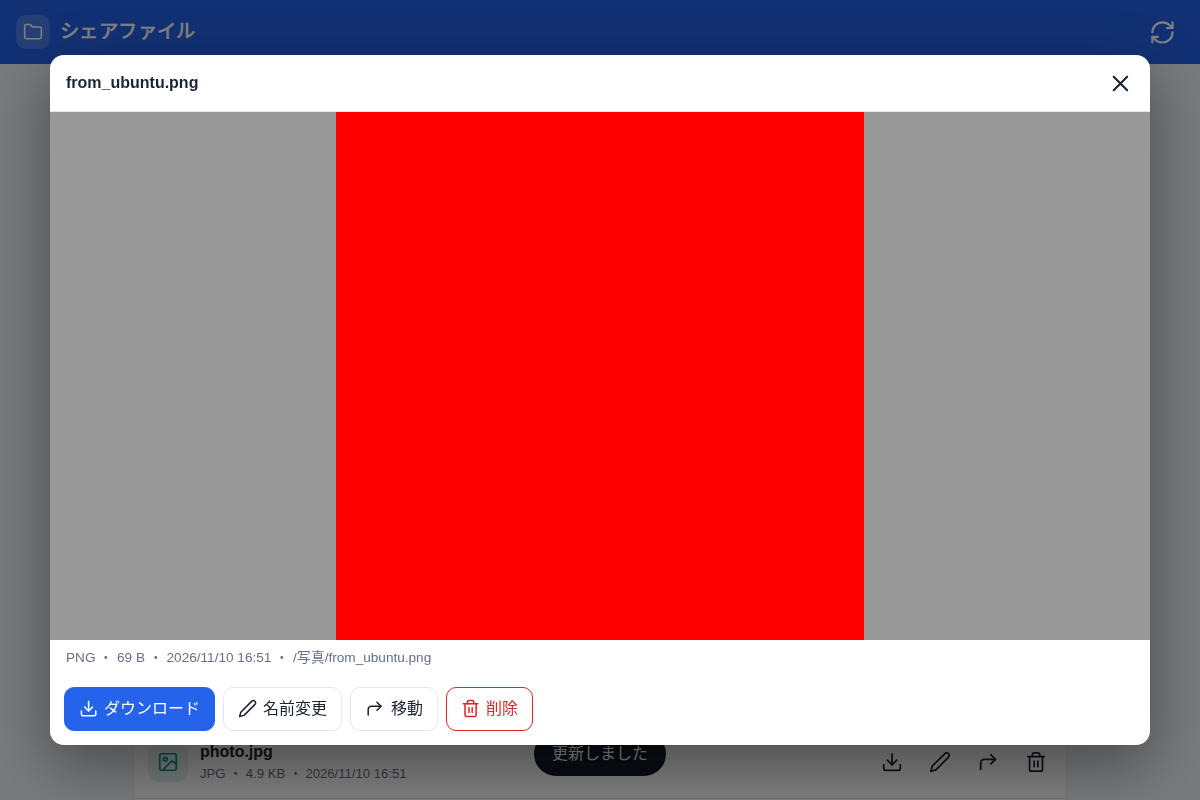
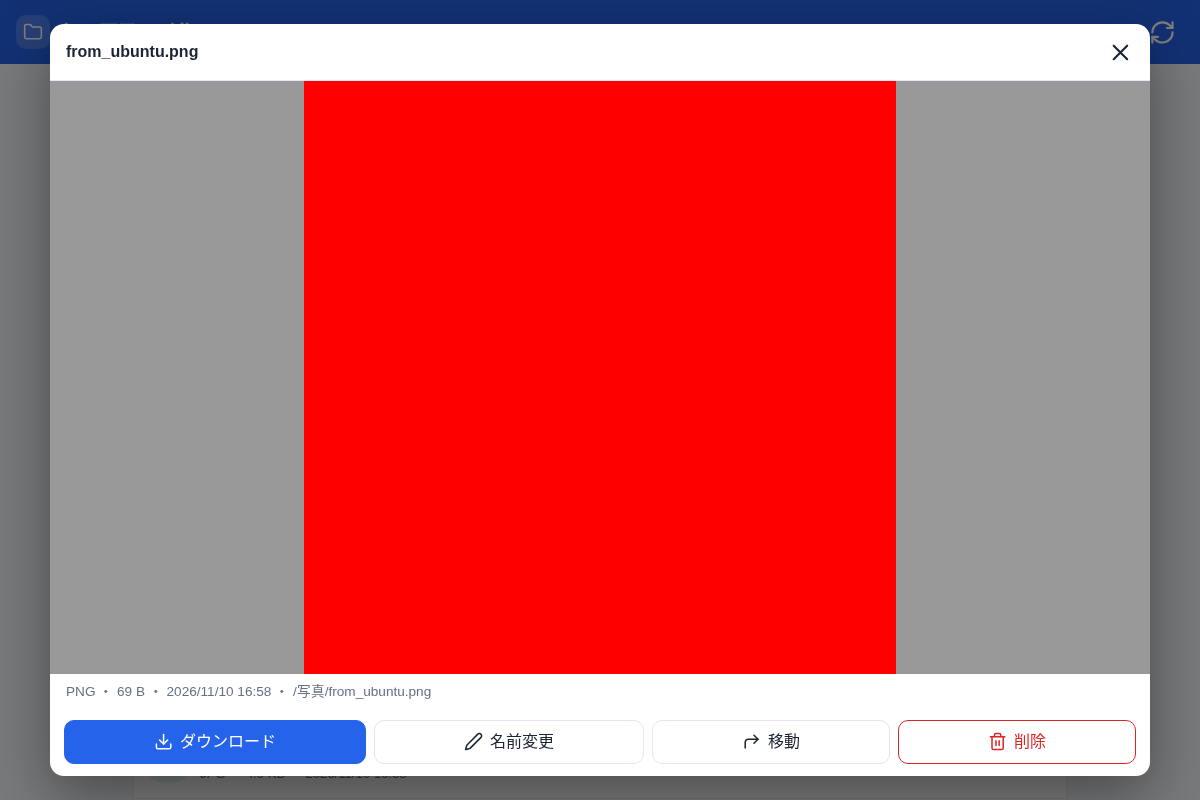
UI: fit preview dialog to viewport without scrolling

Changed region(s): [[0.0308, 0.0312, 0.9558, 0.9688]]

diff --git a/app/static/style.css b/app/static/style.css
@@ -86,15 +86,17 @@ dialog::backdrop { background: rgba(0,0,0,.5); }
 .dlg input, .dlg select { width: 100%; }
 .dlg .hint { font-size: .8rem; color: var(--muted); margin: 0; }
 .actions { display: flex; gap: 8px; justify-content: flex-end; flex-wrap: wrap; }
-dialog.preview { width: min(96vw, 1100px); max-height: 94vh; }
-.pv-head { display: flex; justify-content: space-between; align-items: center; padding: 6px 8px 6px 16px; border-bottom: 1px solid var(--line); gap: 8px; }
+dialog.preview[open] { width: min(96vw, 1100px); height: min(94vh, 94dvh); max-height: none; display: flex; flex-direction: column; overflow: hidden; }
+.pv-head { flex: none; display: flex; justify-content: space-between; align-items: center; padding: 6px 8px 6px 16px; border-bottom: 1px solid var(--line); gap: 8px; }
 .pv-head strong { overflow: hidden; text-overflow: ellipsis; white-space: nowrap; }
-.pv-body { display: flex; align-items: center; justify-content: center; background: #0006; max-height: 66vh; min-height: 120px; overflow: auto; }
-.pv-body img, .pv-body video { width: 100%; height: 66vh; object-fit: contain; display: block; }
-.pv-body iframe { width: 100%; height: 66vh; border: 0; background: #fff; }
-.pv-body pre { margin: 0; padding: 14px; white-space: pre-wrap; word-break: break-all; width: 100%; max-height: 66vh; overflow: auto; align-self: flex-start; font: .85rem/1.5 ui-monospace, Menlo, monospace; background: var(--card); }
+.pv-body { display: flex; align-items: center; justify-content: center; background: #0006; flex: 1 1 0; min-height: 0; overflow: hidden; }
+.pv-body img, .pv-body video { width: 100%; height: 100%; object-fit: contain; display: block; }
+.pv-body iframe { width: 100%; height: 100%; border: 0; background: #fff; }
+.pv-body pre { margin: 0; padding: 14px; white-space: pre-wrap; word-break: break-all; width: 100%; height: 100%; overflow: auto; font: .85rem/1.5 ui-monospace, Menlo, monospace; background: var(--card); }
 .pv-body .nopv { display: flex; align-items: center; justify-content: center; gap: 8px; flex-wrap: wrap; padding: 36px 16px; text-align: center; color: var(--muted); }
-.pv-info { padding: 8px 16px; font-size: .85rem; color: var(--muted); word-break: break-all; }
-.pv-actions { display: flex; flex-wrap: wrap; gap: 8px; padding: 10px 14px 14px; }
+.pv-info { flex: none; padding: 8px 16px; font-size: .85rem; color: var(--muted); word-break: break-all; }
+.pv-actions { flex: none; display: flex; flex-wrap: wrap; gap: 8px; padding: 10px 14px calc(12px + env(safe-area-inset-bottom)); }
+.pv-actions .btn { min-height: 44px; padding: 8px 12px; flex: 1 1 auto; }
+.pv-body .nopv { overflow: auto; max-height: 100%; }
 .empty { padding: 40px 16px; text-align: center; color: var(--muted); }
 [hidden] { display: none !important; }
